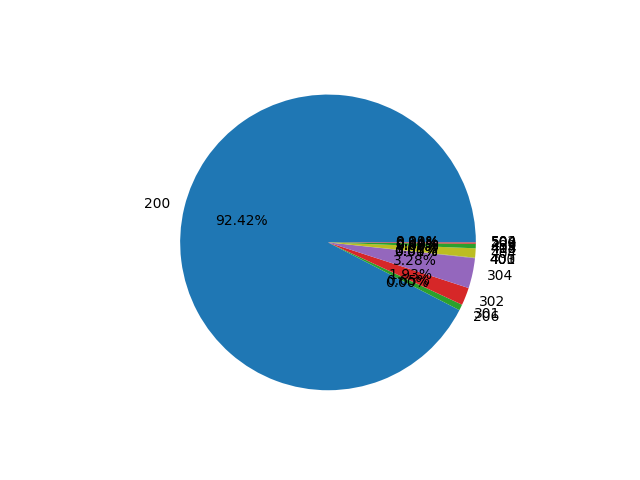
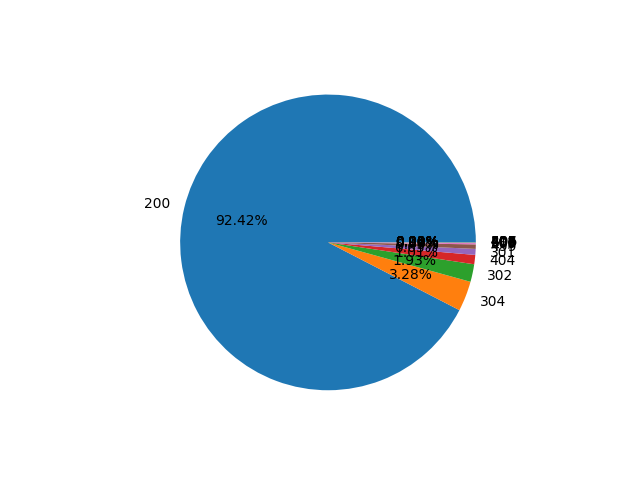
added e, f, j

Changed region(s): [[0.5, 0.4688, 0.8125, 0.6875]]

diff --git a/src/q2.py b/src/q2.py
@@ -39,11 +39,16 @@ if __name__ == "__main__":
     n_clean = g_clean.count()
     n_total = g.count()
     n_bad = n_total - n_clean
+    print()
     print(f"Number of bad Rows : {n_bad}")
 
     # Status distribution
-    stat_distr = g_clean.map(lambda row: (row[3], 1)).reduceByKey(add).collect()
-    stat_distr = sorted(stat_distr, key = lambda t: int(t[0]))
+    stat_distr = \
+        g_clean.map(lambda row: (row[3], 1)).\
+        reduceByKey(add).\
+        sortBy(lambda t: t[1], ascending = False).\
+        collect()
+    print()
     print("HTTP status analysis:")
     print("status\tcount")
     for t in stat_distr:
@@ -58,16 +63,59 @@ if __name__ == "__main__":
     plt.close(fig)
 
     # Hosts distribution
-    host_distr = g_clean.map(lambda row: (row[0], 1)).reduceByKey(add).collect()
-    host_distr = sorted(host_distr, key = lambda t: t[0])
+    host_distr = \
+        g_clean.\
+        map(lambda row: (row[0], 1)).\
+        reduceByKey(add).\
+        sortBy(lambda t: t[1], ascending = False)
+    n_hosts = host_distr.count()
+    print()
     print("Frequent Hosts:")
     print("host\tcount")
-    for t in host_distr:
+    for t in host_distr.take(10):
         print(f"{t[0]}\t{t[1]}")
 
     # Unique hosts
+    print()
     print("Unique hosts:")
-    print(len(host_distr))
+    print(n_hosts)
+
+    # Unique hosts per day
+    host_and_day = g_clean.map(lambda row: (row[0], row[1][:11])).distinct()
+    pprint(host_and_day.take(5))
+    hosts_per_day = \
+        host_and_day.\
+        groupBy(lambda row: row[1]).\
+        map(lambda row: (row[0], len(row[1]))).\
+        sortBy(lambda row: row[0], ascending = True).\
+        collect()
+    print()
+    print("Unique hosts per day:")
+    print("day\thosts")
+    for t in hosts_per_day:
+        print(f"{t[0]}\t{t[1]}")
+
+    # Line graph
+    days = [t[0] for t in hosts_per_day]
+    n_hosts = [t[1] for t in hosts_per_day]
+    fig = plt.figure()
+    plt.plot(days, n_hosts)
+    plt.ylabel("Hosts count")
+    plt.xlabel("Day") 
+    plt.title("Number of Unique Hosts Daily")
+    plt.savefig("q2Df.png")
+    plt.close(fig)
+
+    # Response lengths
+    g_res = g_clean.map(lambda row: int(row[-1]))
+    min_res = g_res.min()
+    max_res = g_res.max()
+    avg_res = g_res.mean()
+    print()
+    print("Response length statistics:")
+    print(f"Minimum length: {min_res}")
+    print(f"Maximum length: {max_res}")
+    print(f"Average length: {avg_res}")
 
     # Stop
     spark.stop()
